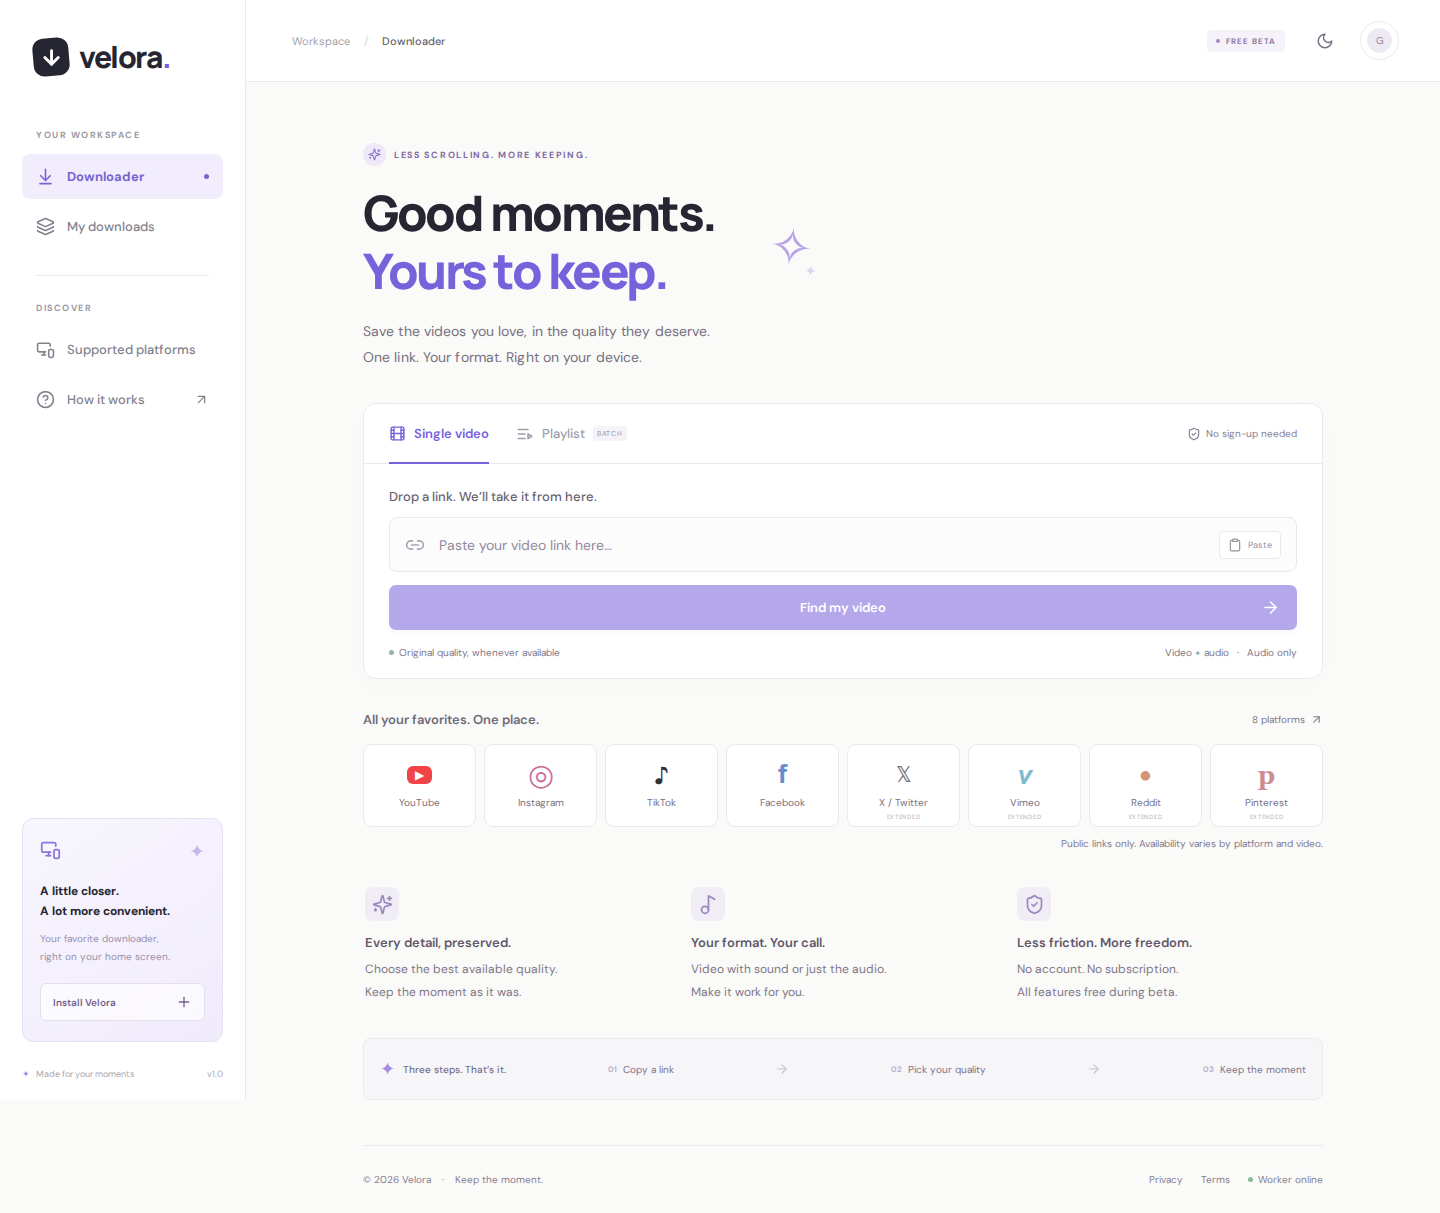
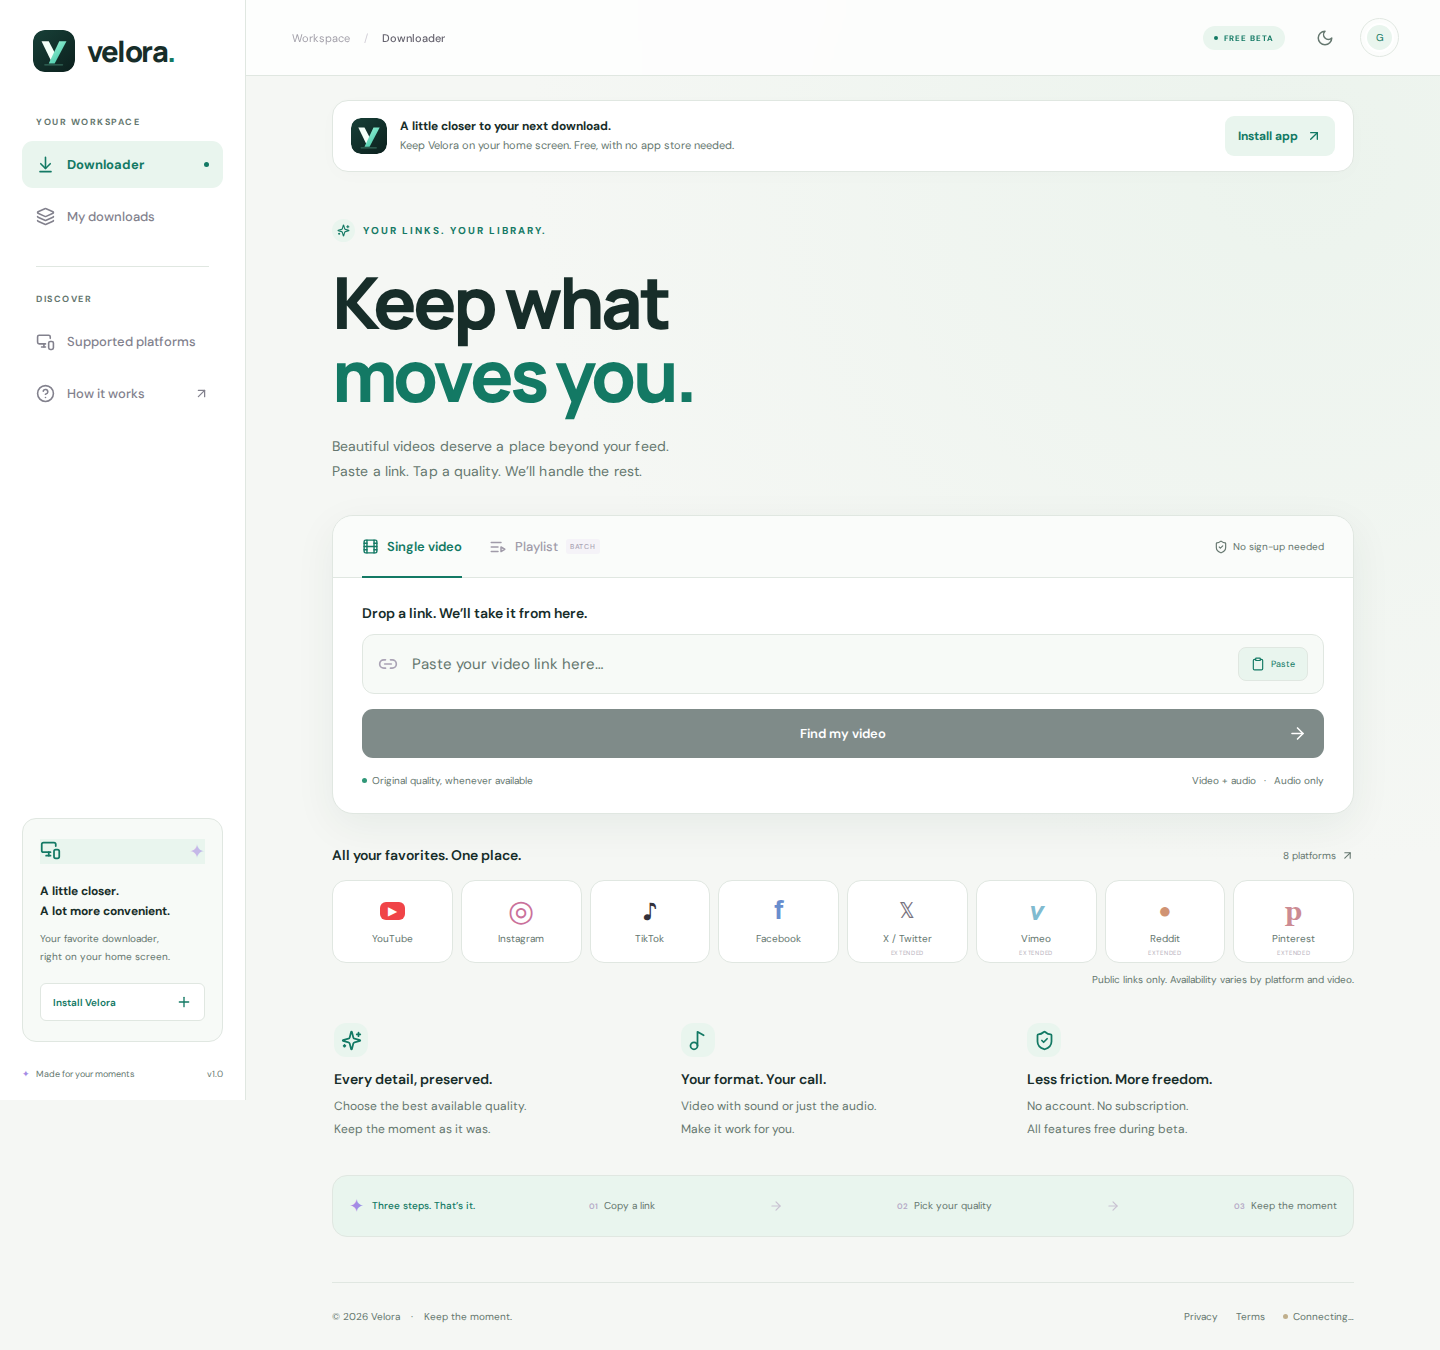
Record public download verification and refreshed screenshots

diff --git a/VERIFICATION.md b/VERIFICATION.md
@@ -44,3 +44,7 @@ This is a deployed small beta, not a guarantee of unrestricted social-platform d
 - A real mobile browser lookup using the warm staging cache took 0.22 seconds. One tap on 720p produced an automatic download in 9.14 seconds with H.264/AAC tracks; full-file decoding passed. Real YouTube, TikTok, Facebook and silent Instagram samples also passed the updated staging pipeline.
 - A stale Neon connection was reproduced in the previous deployment. Pool checkout now checks connection health. An actual Neon test disconnected only its own client socket; the following read recovered in 1.87 seconds.
 - The original failing 4K URL/player was unavailable, so that specific historical incident could not be reproduced. The 4K regression uses generated media; mobile/desktop playback also depends on device decoding capability.
+
+- Production verification after release: a real 1440p Facebook download saved automatically from the public mobile browser with H.264 video (1440 × 2560) and AAC audio; full-file decoding passed. Initial lookup took 10.48 seconds and preparation plus saving took 92.03 seconds on this four-core Ubuntu/free-tunnel setup. A subsequent cached lookup through public HTTPS took 3.848 seconds. These observations distinguish source lookup speed from high-resolution preparation time.
+- Public responsive layouts passed at 320, 390, 768 and 1440 pixels. The logo and license-notice asset routes returned the correct content types; the updated offline PWA shell passed. Homepage screenshots were refreshed from the deployed app.
+- Final release checks: 36 backend, 12 desktop/mobile browser, and 1 PWA check passed (49 total). The production worker and connector are active; temporary staging services were stopped and smoke-test downloads removed.
